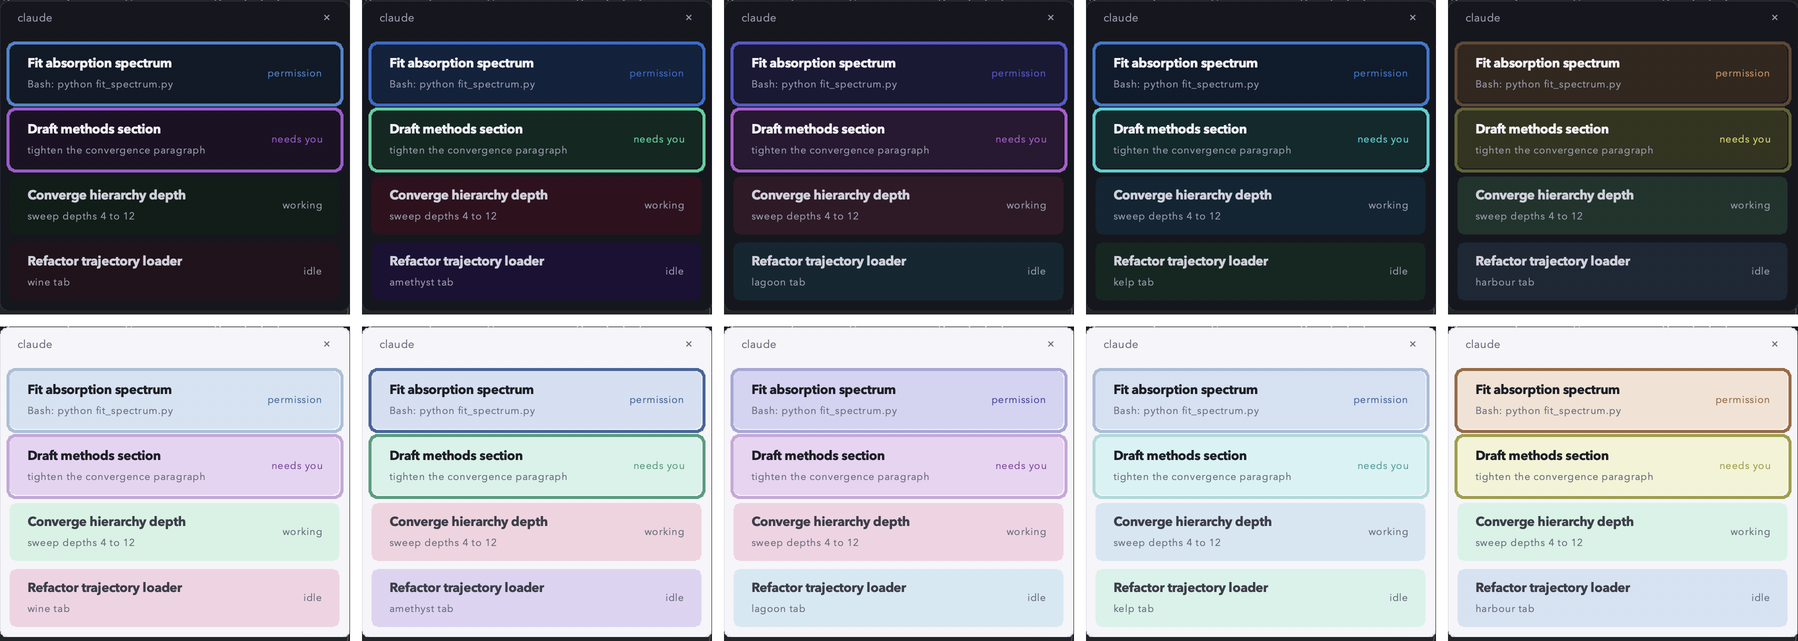
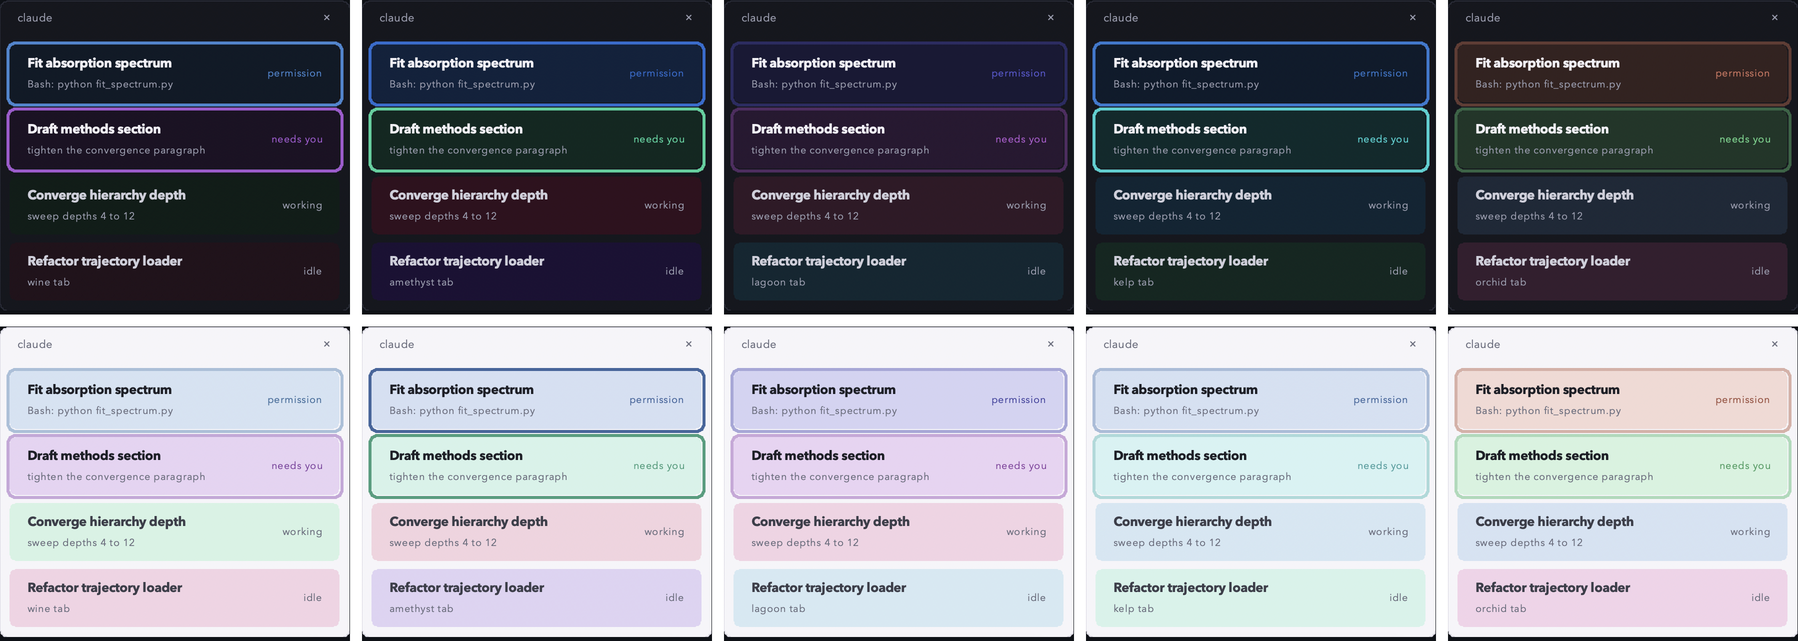
Ten colours in every scheme
Trim muted and jewel to ten and widen colourblind to ten, re-picked by
colour-vision simulation. A test now keeps every scheme the same size.

diff --git a/scripts/tint.py b/scripts/tint.py
@@ -30,14 +30,13 @@ DARK = {
     "muted": [
         ("midnight", "0d1b2a"), ("plum", "1e1026"), ("forest", "0c1f16"), ("wine", "26101a"),
         ("teal", "0c2224"), ("espresso", "211810"), ("indigo", "14132b"), ("moss", "1a200e"),
-        ("slate", "171c24"), ("rust", "261410"), ("mulberry", "2a1428"), ("olive", "1f2010"),
-        ("cobalt", "0f1a36"), ("sea", "0e2a20"), ("cocoa", "2a1e1a"),
+        ("rust", "261410"), ("mulberry", "2a1428"),
     ],
     # Deeper, more saturated colours that are easy to tell apart.
     "jewel": [
         ("sapphire", "0d2547"), ("emerald", "0a2e22"), ("ruby", "3a0d1e"), ("amethyst", "1f0f3d"),
-        ("amber", "3a2805"), ("turquoise", "05302f"), ("garnet", "330a12"), ("jade", "12300a"),
-        ("violet", "2d0a3a"), ("copper", "3a1a05"), ("lapis", "0a1a40"), ("magenta", "3a0a2e"),
+        ("amber", "3a2805"), ("turquoise", "05302f"), ("jade", "12300a"), ("violet", "2d0a3a"),
+        ("copper", "3a1a05"), ("magenta", "3a0a2e"),
     ],
     # Twilight purples, roses and evening blues.
     "dusk": [
@@ -51,13 +50,15 @@ DARK = {
         ("deep", "15243c"), ("tide", "0a2a33"), ("pearl", "1f2a38"), ("seaglass", "123228"),
         ("storm", "1a2030"), ("current", "082638"),
     ],
-    # Six hues picked by simulating protanopia, deuteranopia and tritanopia, so
-    # every pair of card colours stays clearly different for each.
+    # Ten hues picked by simulating protanopia, deuteranopia and tritanopia, so
+    # every pair of card colours stays as different as ten colours allow for each.
     "colourblind": [
-        ("copper", "3d2c1e"), ("brass", "3d3d1e"), ("jade", "1e3d30"), ("harbour", "1e2e3d"),
-        ("indigo", "211e3d"), ("raspberry", "3d1e2d"),
+        ("cinnabar", "402620"), ("copper", "402f20"), ("amber", "403720"), ("brass", "404020"),
+        ("jade", "20402b"), ("lagoon", "203740"), ("harbour", "202f40"), ("indigo", "222040"),
+        ("orchid", "402035"), ("raspberry", "402024"),
     ],
 }
+PALETTE_SIZE = 10                                # every scheme has this many colours
 SCHEMES = DARK
 TEXT = {"dark": "e8e6ee", "light": "1f2329"}     # tab text colour in each mode
 

diff --git a/tests/test_tint.py b/tests/test_tint.py
@@ -8,8 +8,9 @@ tint = importlib.util.module_from_spec(spec)
 spec.loader.exec_module(tint)
 
 
-def test_every_scheme_has_a_dark_and_a_light_version():
+def test_every_scheme_has_a_dark_and_a_light_version_of_the_same_size():
     for scheme in tint.DARK:
+        assert len(tint.DARK[scheme]) == tint.PALETTE_SIZE, scheme
         dark, light = tint.palette(scheme, "dark"), tint.palette(scheme, "light")
         assert [n for n, _ in dark] == [n for n, _ in light]
         assert not any(w.is_light(h) for _, h in dark), scheme
@@ -118,4 +119,4 @@ def test_colourblind_cards_stay_distinct_for_every_colour_vision_type():
         labs = [_lab(a, matrix) for a in accents]
         closest = min(sum((p - q) ** 2 for p, q in zip(a, b)) ** 0.5
                       for a, b in itertools.combinations(labs, 2))
-        assert closest > 15, name
+        assert closest > 9, name

diff --git a/README.md b/README.md
@@ -116,13 +116,15 @@ There are five colour schemes, and each comes in a dark and a light version. Lig
 
 | Scheme | Colours | Feel |
 | --- | --- | --- |
-| **muted** | 15 | Quiet, low-saturation colours. The default. |
-| **jewel** | 12 | Richer sapphires, emeralds and rubies that are easy to tell apart. |
+| **muted** | 10 | Quiet, low-saturation colours. The default. |
+| **jewel** | 10 | Richer sapphires, emeralds and rubies that are easy to tell apart. |
 | **dusk** | 10 | Twilight purples, roses and evening blues. |
 | **ocean** | 10 | Sea blues, teals and greens. |
-| **colourblind** | 6 | Copper, brass, jade, harbour blue, indigo and raspberry. |
+| **colourblind** | 10 | Warm reds and golds, jade, blues, indigo and pinks. |
 
-**The colourblind scheme was chosen by simulation.** Its six colours were picked so that every pair of cards stays clearly different under simulated protanopia, deuteranopia and tritanopia. A test in the suite checks this, so it stays true if the colours are ever edited.
+**Every scheme has ten colours**, so ten tabs can be open before any colour repeats.
+
+**The colourblind scheme was chosen by simulation.** Its colours were picked so that every pair of cards stays as different as possible under simulated protanopia, deuteranopia and tritanopia. A test in the suite checks this, so it stays true if the colours are ever edited.
 
 Switch scheme:
 
